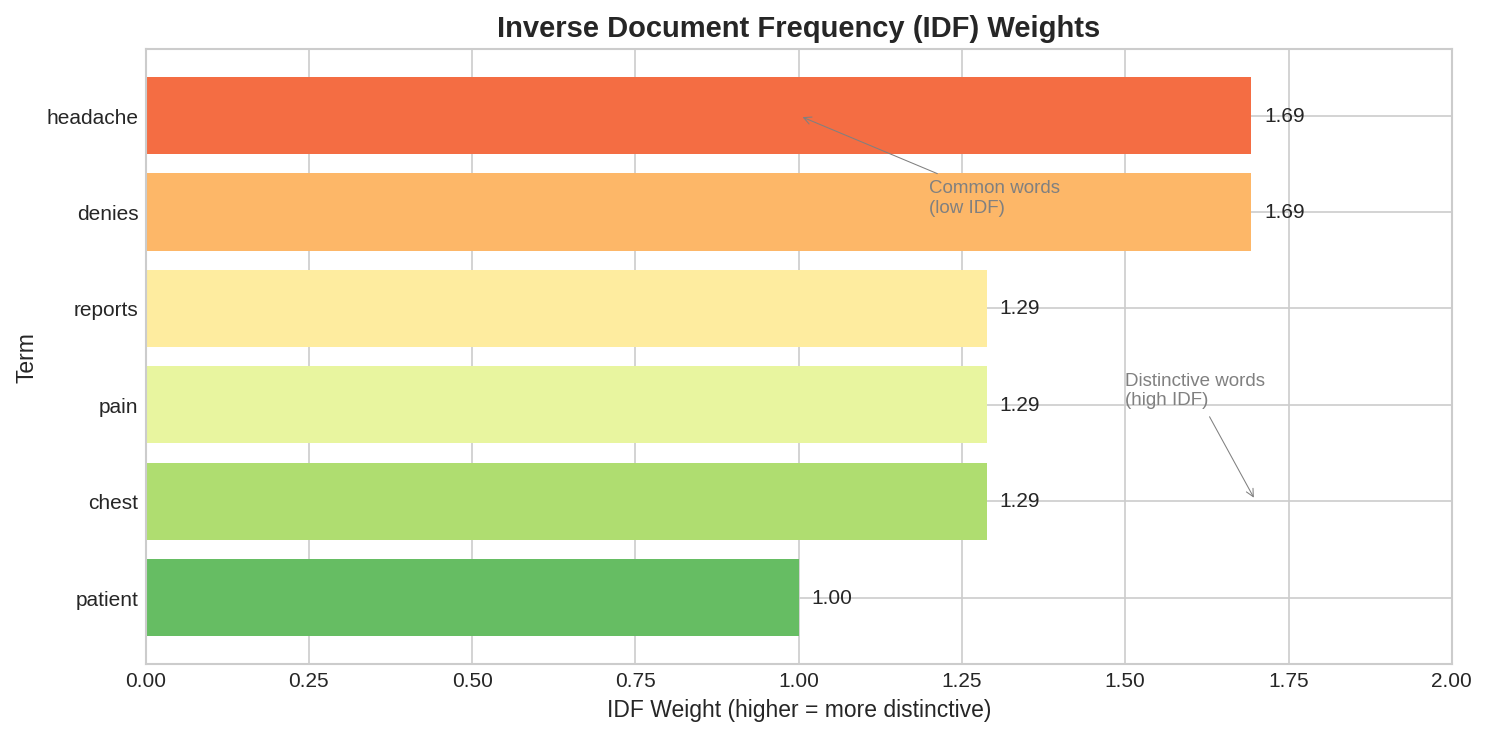
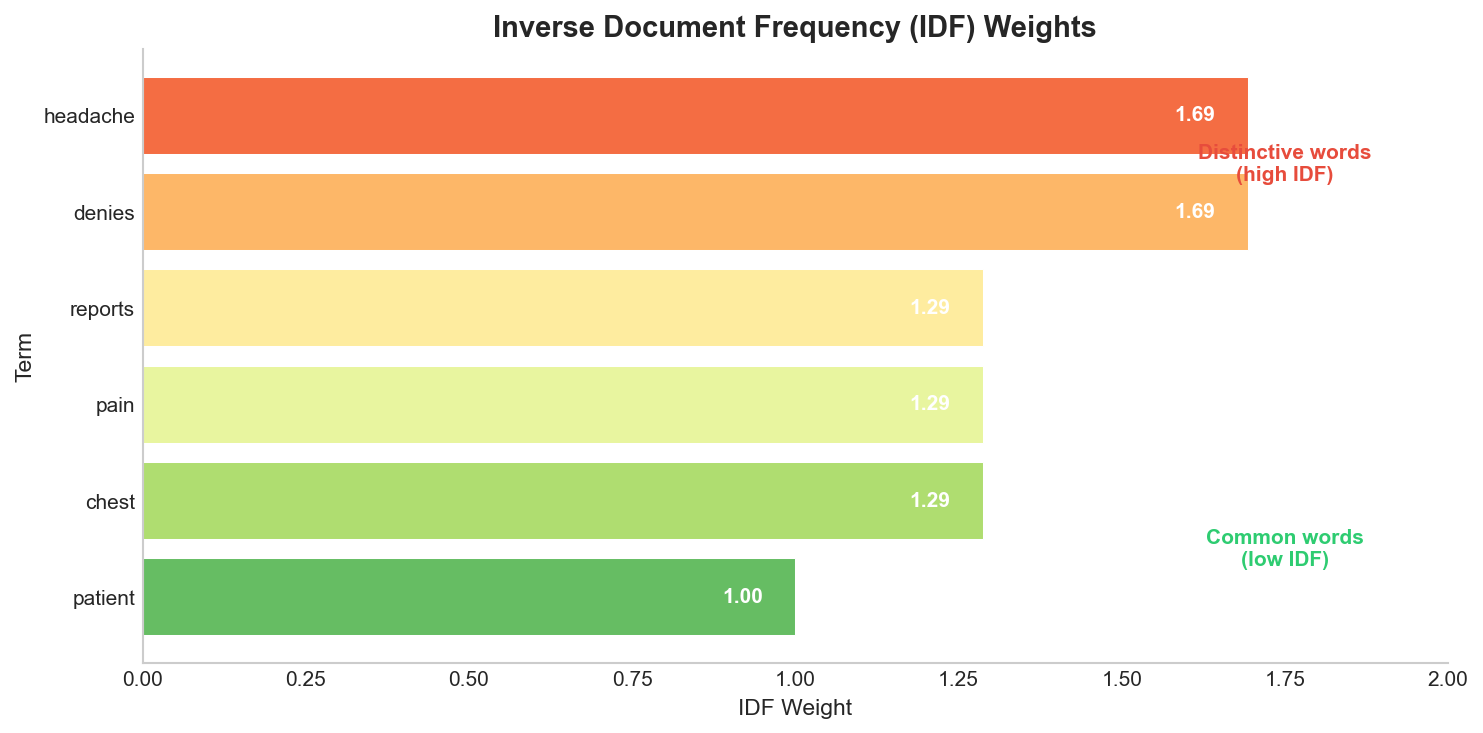
better? better

diff --git a/lectures/04/media/generate_visuals.py b/lectures/04/media/generate_visuals.py
@@ -56,37 +56,41 @@ def generate_tfidf_barchart():
     feature_names = vectorizer.get_feature_names_out()
     idf_values = vectorizer.idf_
 
-    # Sort by IDF value
-    sorted_indices = np.argsort(idf_values)[::-1]
+    # Sort by IDF value (low to high for bottom-to-top display)
+    sorted_indices = np.argsort(idf_values)
     sorted_names = feature_names[sorted_indices]
     sorted_idf = idf_values[sorted_indices]
 
     fig, ax = plt.subplots(figsize=(10, 5))
 
-    # Color bars by IDF value (higher = more distinctive)
-    colors = plt.cm.RdYlGn(np.linspace(0.2, 0.8, len(sorted_idf)))
+    # Color bars by IDF value (green = common/low, red = distinctive/high)
+    colors = plt.cm.RdYlGn_r(np.linspace(0.2, 0.8, len(sorted_idf)))
 
-    bars = ax.barh(sorted_names, sorted_idf, color=colors)
+    bars = ax.barh(sorted_names, sorted_idf, color=colors, edgecolor='white', linewidth=0.5)
 
-    # Add value labels
+    # Add value labels inside bars
     for bar, val in zip(bars, sorted_idf):
-        ax.text(val + 0.02, bar.get_y() + bar.get_height()/2,
-                f'{val:.2f}', va='center', fontsize=10)
+        ax.text(val - 0.05, bar.get_y() + bar.get_height()/2,
+                f'{val:.2f}', va='center', ha='right', fontsize=10,
+                color='white', fontweight='bold')
 
-    ax.set_xlabel('IDF Weight (higher = more distinctive)', fontsize=11)
+    ax.set_xlabel('IDF Weight', fontsize=11)
     ax.set_ylabel('Term', fontsize=11)
     ax.set_title('Inverse Document Frequency (IDF) Weights', fontsize=14, fontweight='bold')
 
-    # Add annotation
-    ax.annotate('Common words\n(low IDF)', xy=(1.0, 0), xytext=(1.2, 1),
-                fontsize=9, color='gray',
-                arrowprops=dict(arrowstyle='->', color='gray', lw=0.5))
-    ax.annotate('Distinctive words\n(high IDF)', xy=(1.7, 4), xytext=(1.5, 3),
-                fontsize=9, color='gray',
-                arrowprops=dict(arrowstyle='->', color='gray', lw=0.5))
+    # Clean up - remove gridlines
+    ax.grid(False)
+    ax.set_axisbelow(True)
+
+    # Add text labels (no arrows)
+    ax.text(1.75, 0.5, 'Common words\n(low IDF)', fontsize=10, color='#2ecc71',
+            ha='center', va='center', fontweight='bold')
+    ax.text(1.75, len(sorted_names) - 1.5, 'Distinctive words\n(high IDF)', fontsize=10,
+            color='#e74c3c', ha='center', va='center', fontweight='bold')
 
     ax.set_xlim(0, 2.0)
-    ax.invert_yaxis()
+    ax.spines['top'].set_visible(False)
+    ax.spines['right'].set_visible(False)
 
     plt.tight_layout()
     plt.savefig('tfidf_weights.png', dpi=150, bbox_inches='tight', facecolor='white')

diff --git a/lectures/04/lecture_04.md b/lectures/04/lecture_04.md
@@ -226,7 +226,7 @@ Word          Stemmer Output    Lemmatizer Output
 "running"     "run"             "run"
 "studies"     "studi"           "study"
 "better"      "better"          "good" (with POS=adj)
-"universities""univers"         "university"
+"universities" "univers"        "university"
 ```
 
 ### Reference Card: Stemming & Lemmatization
@@ -253,6 +253,8 @@ words = ["running", "studies", "better", "caring"]
 for word in words:
     print(f"{word}: stem={stemmer.stem(word)}, lemma={lemmatizer.lemmatize(word, pos='v')}")
 ```
+
+![XKCD: Synonym Date](media/xkcd_synonym_date.png)
 
 # LIVE DEMO!
 
@@ -435,7 +437,7 @@ for ent in doc.ents:
 
 # Text Extraction
 
-Beyond NER, we often need to extract specific patterns from text—vitals, dosages, dates, and other structured information.
+Beyond NER, we often need to extract specific patterns from text—vitals, dosages, dates, and other structured information. Regex is the workhorse for syntactic patterns; for more complex extraction, consider rule-based systems (spaCy's `Matcher`) or template filling.
 
 ## Regex Patterns
 
@@ -563,8 +565,6 @@ print(X.toarray())
 
 **TF-IDF (Term Frequency–Inverse Document Frequency)** improves on raw counts by weighting words based on how distinctive they are. Words that appear in every document get downweighted; rare, specific terms get upweighted.
 
-<!-- #FIXME: tfidf_weights.png needs fixing - "Common words"/"Distinctive words" labels hard to read, arrows point at nothing (should be horizontal), horizontal gridlines behind bars obscure values -->
-
 ![TF-IDF Weights](media/tfidf_weights.png)
 
 $$\text{TF-IDF}(word, doc) = \text{TF}(word, doc) \times \text{IDF}(word)$$
@@ -572,7 +572,7 @@ $$\text{TF-IDF}(word, doc) = \text{TF}(word, doc) \times \text{IDF}(word)$$
 - **TF (Term Frequency)** — how often the word appears in this document
 - **IDF (Inverse Document Frequency)** — how rare the word is across all documents: $\log(\text{total docs} / \text{docs containing word})$
 
-**Example:** "diabetes" appears in 10 of 1000 documents → IDF ≈ 2.0 (distinctive). "patient" appears in 900 of 1000 → IDF ≈ 0.05 (common).
+**Example:** "diabetes" appears in 10 of 1000 documents → high IDF (distinctive). "patient" appears in 900 of 1000 → low IDF (common).
 
 ### Reference Card: `TfidfVectorizer`
 
@@ -644,11 +644,23 @@ print(vectorizer.get_feature_names_out())
 #  'patient', 'patient denies', 'patient reports', 'reports', 'reports chest']
 ```
 
+![XKCD: Automation](media/xkcd_automation.png)
+
 ## Word Vectors
 
 The representations above treat each word independently—"diabetes" and "hypertension" are just as different as "diabetes" and "pizza." **Word vectors** (embeddings) capture semantic similarity: related words have similar vectors.
 
 spaCy's medium and large models (`en_core_web_md`, `en_core_web_lg`) include pre-computed word vectors. We'll cover how embeddings work in Lecture 07.
+
+### Code Snippet: Word Vectors
+
+```python
+import spacy
+nlp = spacy.load("en_core_web_md")  # medium model has vectors
+doc = nlp("diabetes hypertension")
+print(doc[0].vector.shape)          # (300,) - 300-dimensional vector
+print(doc[0].similarity(doc[1]))    # ~0.5 - related medical terms
+```
 
 For classical NLP, TF-IDF is your go-to representation: interpretable, effective, and doesn't require special models.
 
@@ -656,7 +668,7 @@ For classical NLP, TF-IDF is your go-to representation: interpretable, effective
 
 # Document Similarity
 
-With text represented as vectors, we can measure how similar documents are. This enables search, clustering, and recommendation systems.
+With text represented as vectors, we can measure how similar documents are. This enables search, clustering, and recommendation systems. Cosine similarity is the standard choice for text; alternatives include Jaccard similarity (for sets of words) and Euclidean distance (sensitive to document length).
 
 ## Cosine Similarity
 
@@ -677,6 +689,7 @@ $$\cos(\theta) = \frac{A \cdot B}{\|A\| \times \|B\|}$$
 | **Pairwise** | `cosine_similarity(X)` | Similarity between all row pairs in X. | `ndarray` (n×n) |
 | **Compare** | `cosine_similarity(X, Y)` | Similarity between rows of X and Y. | `ndarray` |
 | **Distance** | `spatial.distance.cosine(u, v)` | Cosine distance (1 - similarity). | `float` |
+| **Jaccard** | `jaccard_score(set1, set2)` | Intersection/union of word sets. | `float` (0-1) |
 
 ### Code Snippet: Document Similarity
 
@@ -699,6 +712,12 @@ print(similarities)
 #  [0.35 1.   0.11]
 #  [0.11 0.11 1.  ]]
 # Docs 0 and 1 are most similar (both about chest/breathing)
+
+# Jaccard: compare word sets (ignores frequency)
+words0 = set(docs[0].lower().split())
+words1 = set(docs[1].lower().split())
+jaccard = len(words0 & words1) / len(words0 | words1)
+print(f"Jaccard: {jaccard:.2f}")  # 0.31
 ```
 
 # Specialized Tools
@@ -729,6 +748,8 @@ General NLP tools struggle with clinical text:
 **Temporality** — "History of diabetes" (past) vs "Patient has diabetes" (current) vs "Risk of diabetes" (future).
 
 **Variations** — "hypertention", "htn", "HTN", "high blood pressure" all mean the same thing.
+
+![XKCD: Easily Confused Acronyms](media/xkcd_confused_acronyms.png)
 
 # Pipelines
 
@@ -786,6 +807,8 @@ print(f"BP: {result['blood_pressure']}")
 # BP: ['140/90']
 ```
 
+![XKCD: Python Environment](media/xkcd_python_environment.png)
+
 ## spaCy Pipeline
 
 spaCy's pipeline is integrated—one call processes everything.
@@ -829,8 +852,6 @@ print(f"BP: {result['blood_pressure']}")
 | **Token** | `token.pos_` | Part-of-speech tag. | `str` (`"NOUN"`, `"VERB"`) |
 | **Token** | `token.is_stop`, `token.is_punct` | Boolean filters. | `bool` |
 | **Doc** | `doc.ents` | Named entities found. | `tuple[Span]` |
-
-![XKCD: Python Environment](media/xkcd_python_environment.png)
 
 ## Comparing the Approaches
 
